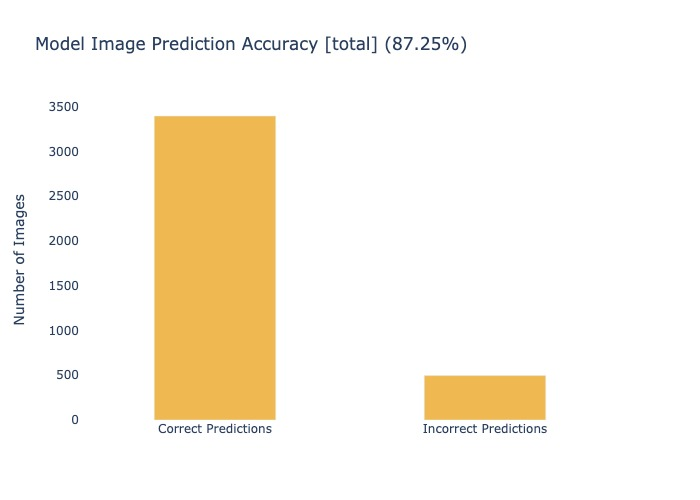
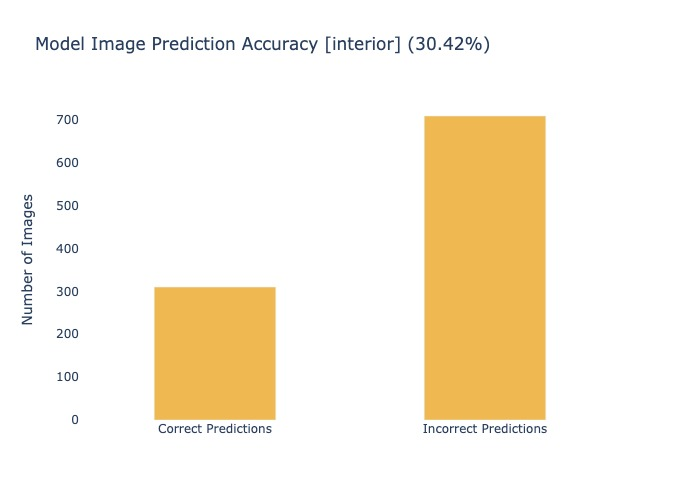
test

diff --git a/vizualization_tools/model accuracy.py b/vizualization_tools/model accuracy.py
@@ -2,10 +2,10 @@ import plotly.express as px
 import plotly.io as pio
 
 # Number of total images
-total_images = 3891
+total_images = 1019
 
 # Number of correctly predicted images
-correct_predictions = 3395
+correct_predictions = 310
 
 # Calculate the accuracy percentage
 accuracy_percentage = (correct_predictions / total_images) * 100
@@ -15,7 +15,7 @@ fig = px.bar(
     x=["Correct Predictions", "Incorrect Predictions"],
     y=[correct_predictions, total_images - correct_predictions],
     labels={"x": "Prediction Results", "y": "Number of Images"},
-    title=f"Model Image Prediction Accuracy [total] ({accuracy_percentage:.2f}%)",
+    title=f"Model Image Prediction Accuracy [interior] ({accuracy_percentage:.2f}%)",
     color_discrete_sequence=["#f0b851", "#f0b851"]
 )
 
@@ -29,7 +29,7 @@ fig.update_layout(
 )
 
 # Adjust the width of the columns
-fig.update_xaxes(categoryorder='total descending', categoryarray=["Correct Predictions", "Incorrect Predictions"], title=None)
+fig.update_xaxes(categoryarray=["Correct Predictions", "Incorrect Predictions"], title=None)
 
 # Save the figure as a .jpg image
 pio.write_image(fig, 'outputs/accuracy_plot.jpg')

diff --git a/service/test/image_processing_service_test.py b/service/test/image_processing_service_test.py
@@ -148,7 +148,7 @@ class ProcessingServiceTest:
                     result.append(
                         ProcessingImage(user_id, image_id_exterior_from, img_data, verdict_scene=verdict_fo_exterior))
             except Exception as e:
-                print("Caught exception " + e)
+                pass
             image_id_exterior_from += 1
             user_id += 1
 
